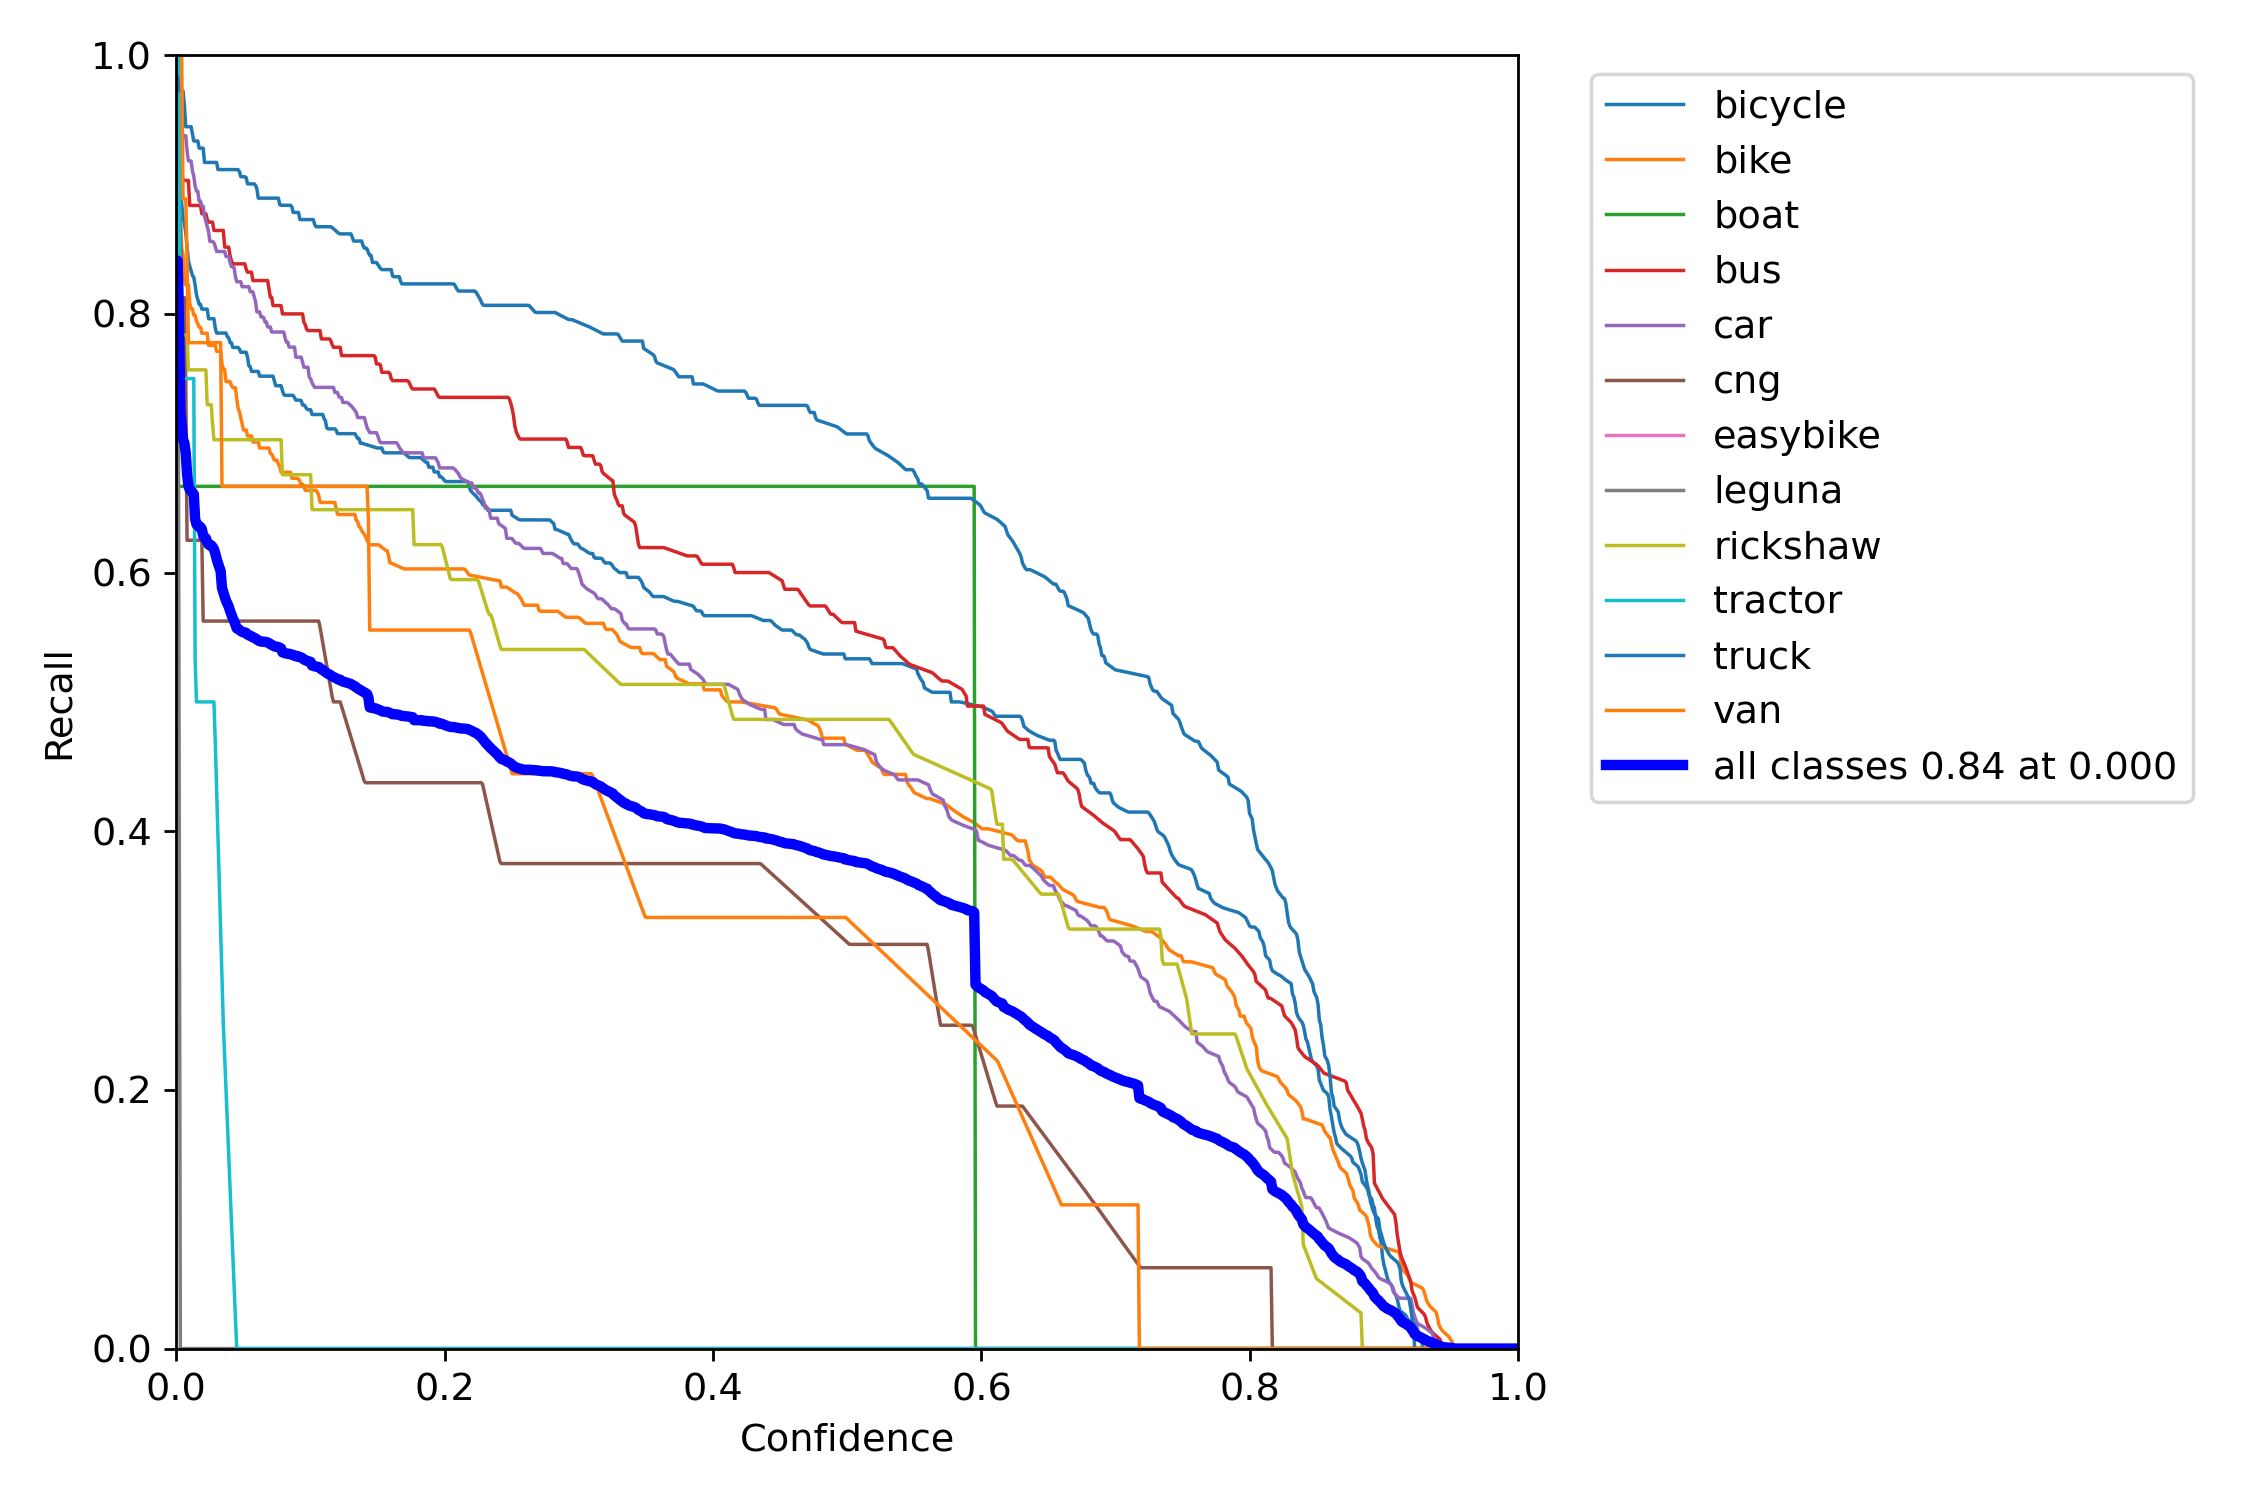
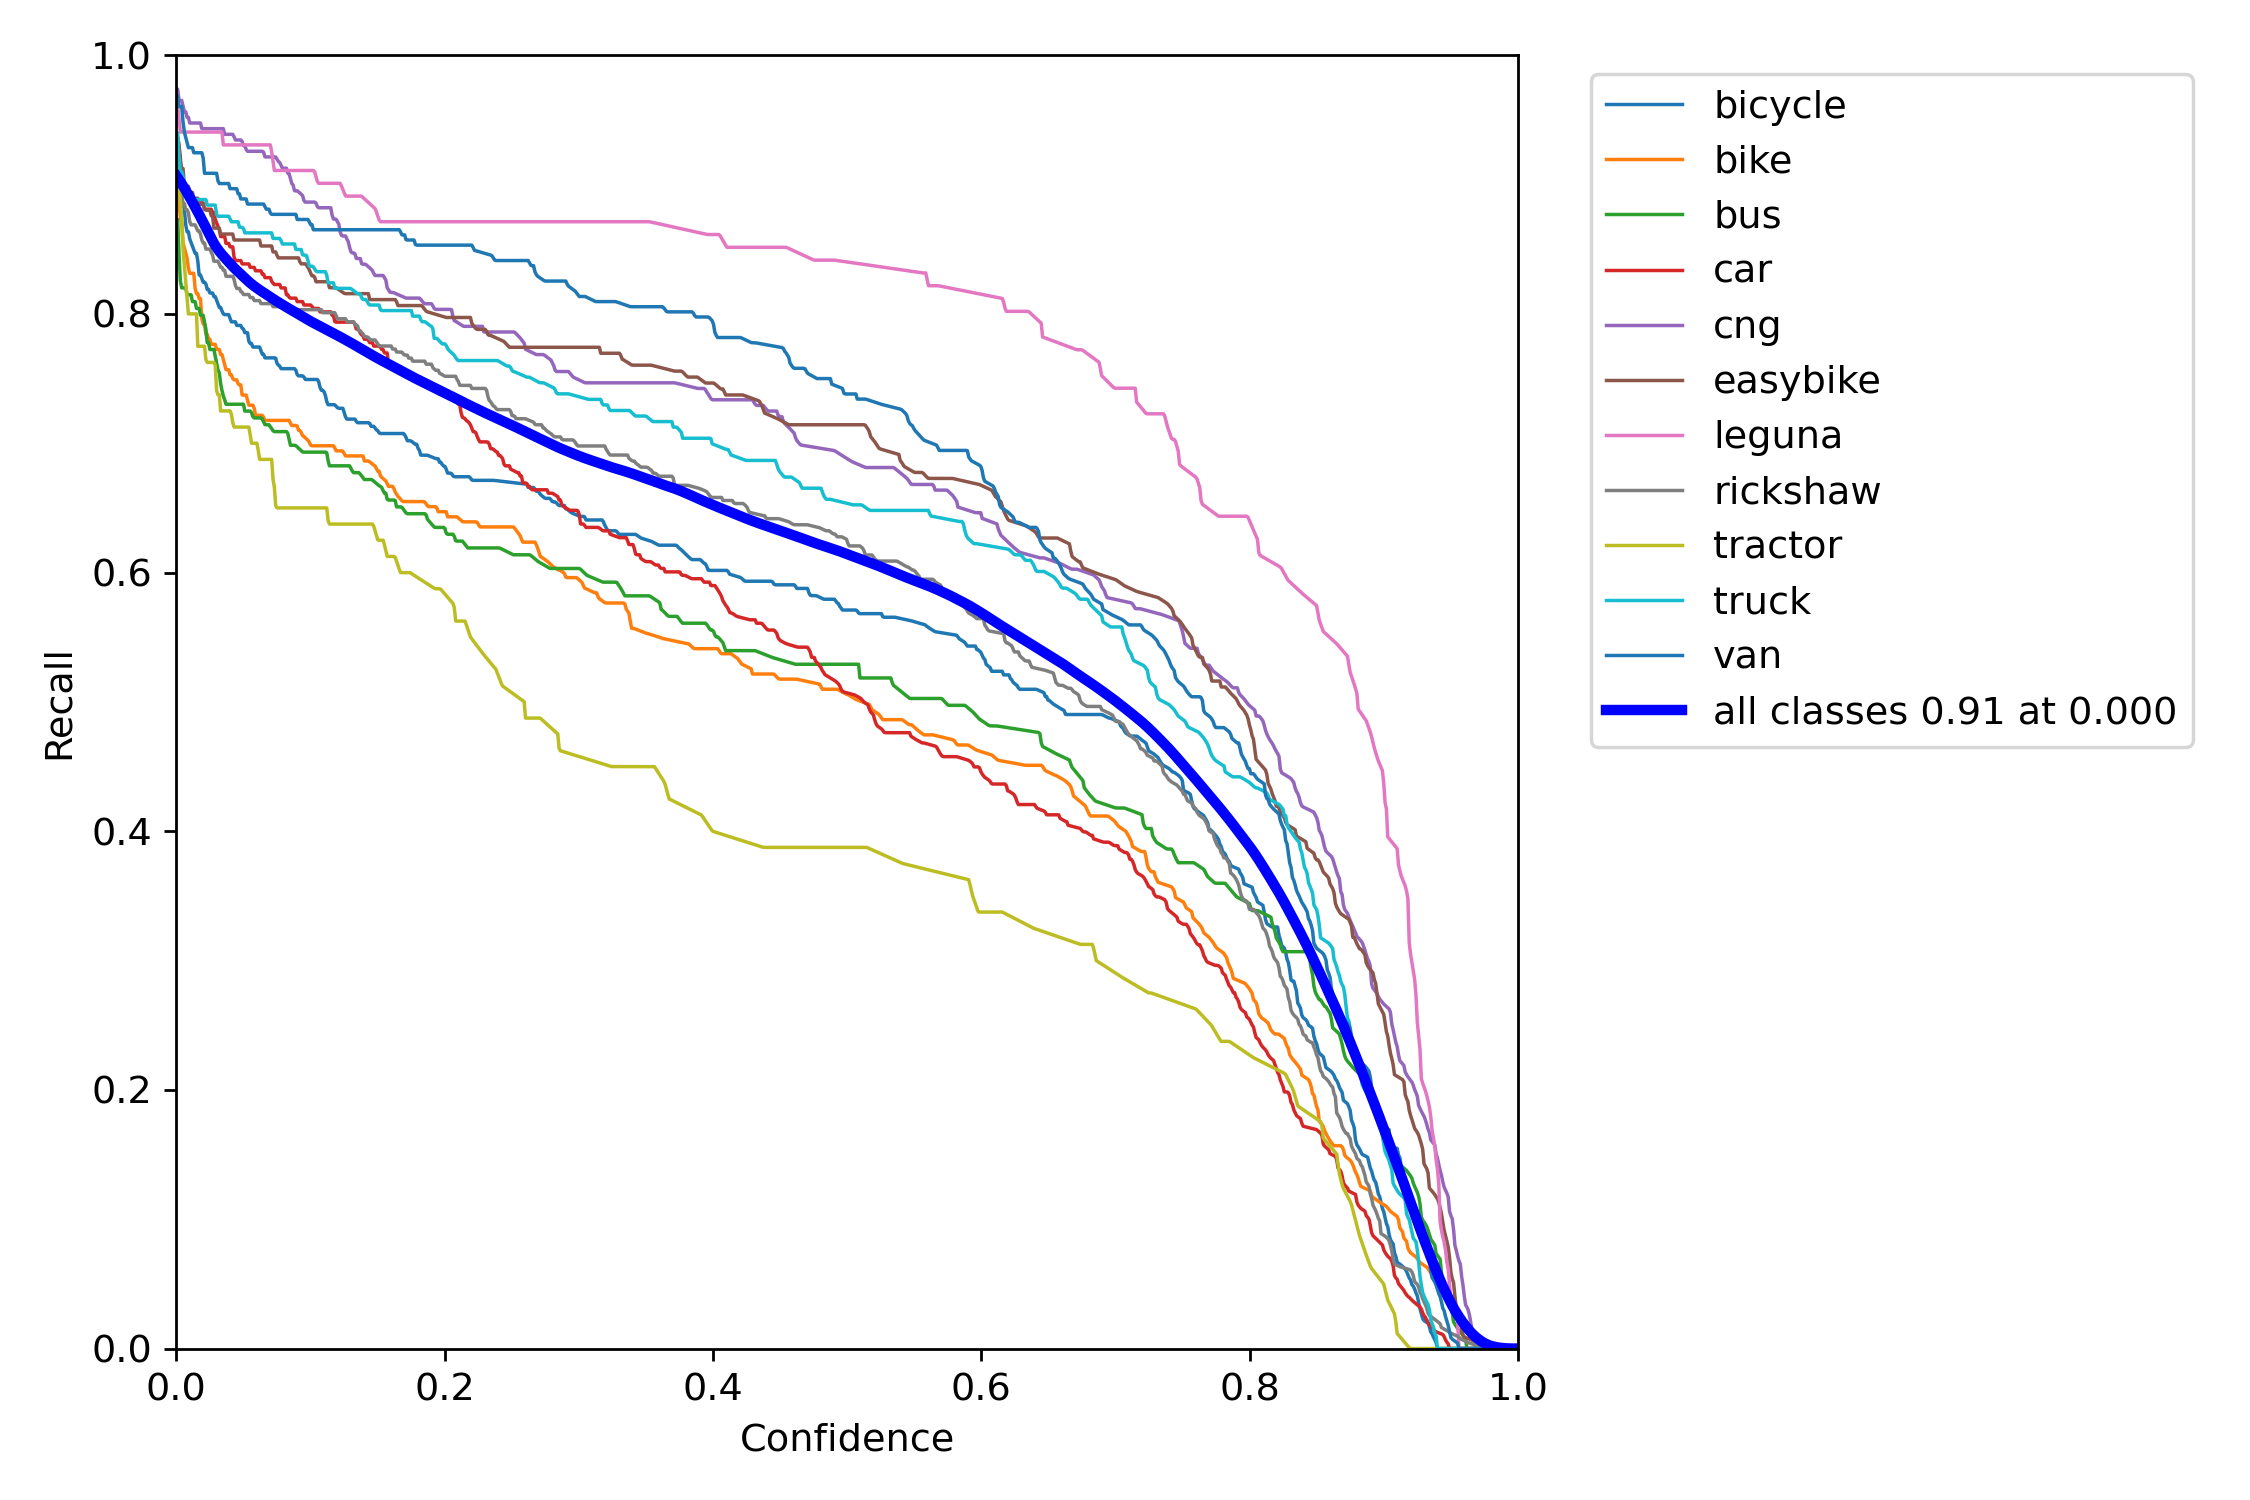
new validations

diff --git a/README.md b/README.md
@@ -15,7 +15,7 @@ YOLOv5 🚀
 <details open>
    <summary> Validation of Model </summary>
    
-   ![PR_curve](https://github.com/Gary-Ng/VehicleDetection/blob/main/yolov5/yolov5/runs/val/exp/PR_curve.png)
+   ![PR_curve](https://github.com/Gary-Ng/VehicleDetection/blob/main/yolov5/yolov5/runs/val/exp2/PR_curve.png)
  </details>
 
 <details open>
